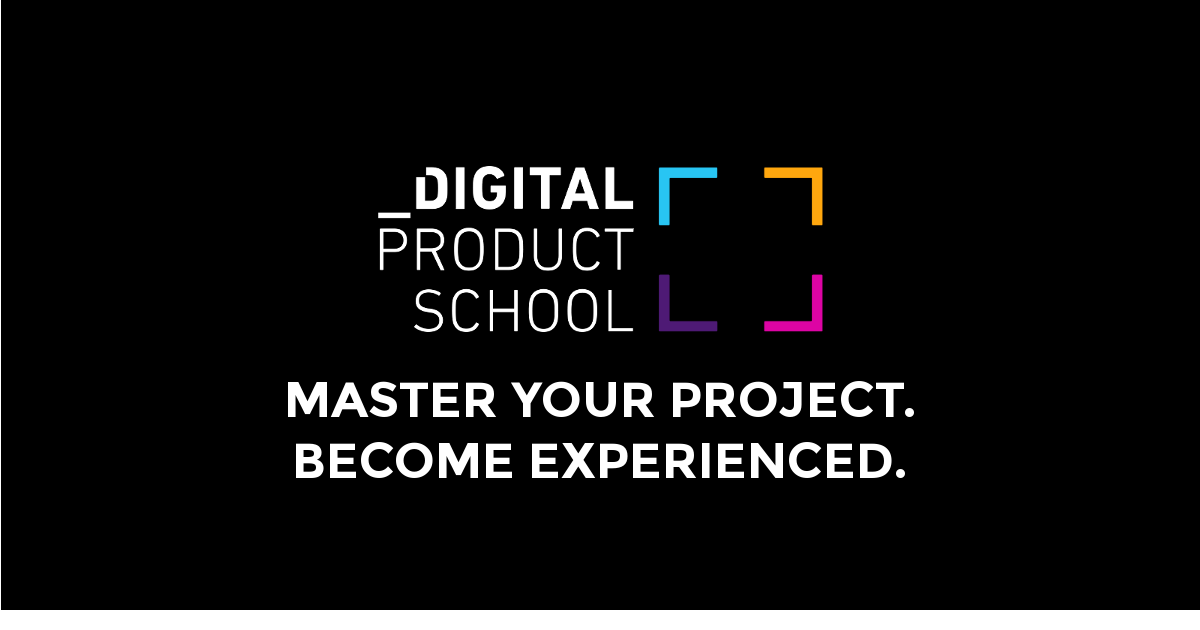
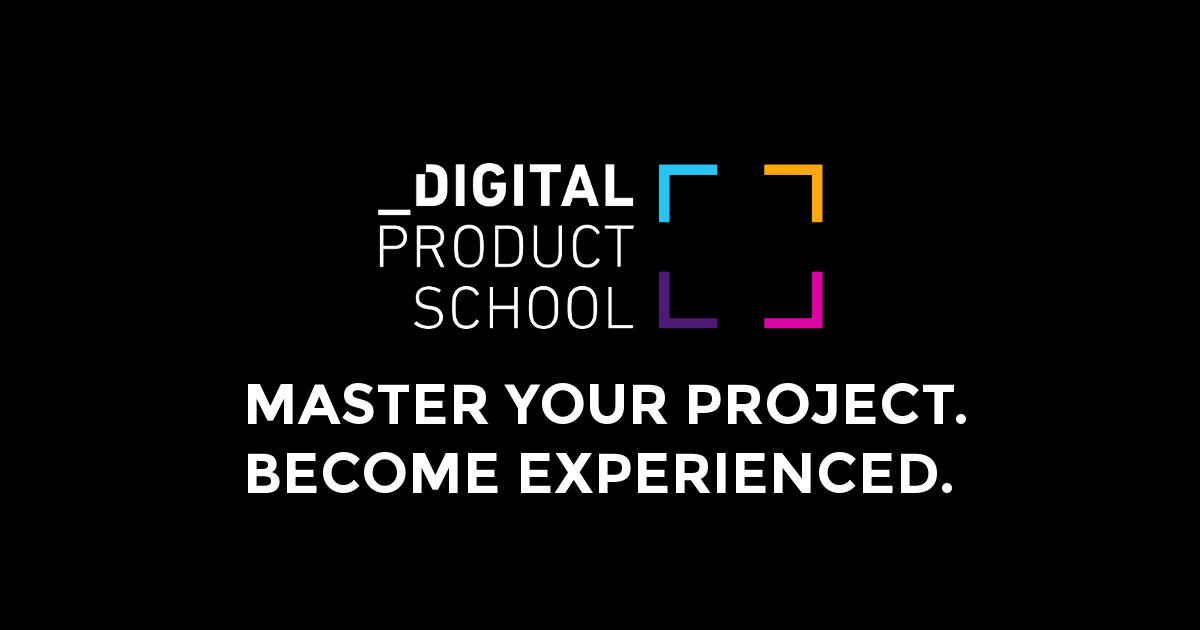
Fix link pictures and wrong link in og:twitter

diff --git a/index.js b/index.js
@@ -48,7 +48,7 @@ function htmlTemplate(reactDom, css) {
             <meta name="twitter:site" content="@dpschool_io" />
             <meta name="twitter:title" content="Digital Product School - Master your project. Become experienced." />
             <meta name="twitter:description" content="DPS is a 3 month training program where product managers, interaction designers, software engineers and AI-specialists build innovative digital products." />
-            <meta name="twitter:image" content="https://digitalproductschool.io/assets/link_dps.png" />
+            <meta name="twitter:image" content="https://digitalproductschool.io/assets/dps-square.png" />
             <meta name="twitter:creator" content="@dpschool_io" />
 
             <meta name="viewport" content="width=device-width, initial-scale=1">

diff --git a/frontend/src/index.html b/frontend/src/index.html
@@ -26,7 +26,7 @@
       <meta name="twitter:site" content="@dpschool_io" />
       <meta name="twitter:title" content="Digital Product School - Master your project. Become experienced." />
       <meta name="twitter:description" content="DPS is a 3 month training program where product managers, interaction designers, software engineers and AI-specialists build innovative digital products." />
-      <meta name="twitter:image" content="https://digitalproductschool.io/assets/link_dps.png" />
+      <meta name="twitter:image" content="https://digitalproductschool.io/assets/dps-square.png" />
       <meta name="twitter:creator" content="@dpschool_io" />
 
       <meta name="viewport" content="width=device-width, initial-scale=1">
